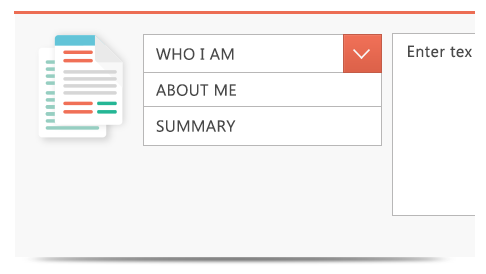
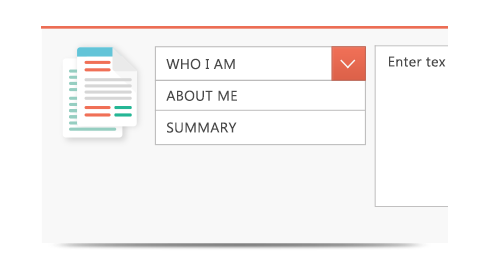
Changed design for home page carousel

diff --git a/assets/css/sss_home.css b/assets/css/sss_home.css
@@ -3,42 +3,57 @@
 /*-----------------------------Carousel-------------------------------------*/
 
 .slide_top_1, .slide_top_2{	
-	width:50%; height:100px; float: left;
+	width:100%; height:100px; 
 	background:#1fa1b4; color: #fff;	text-align: center;
+}
+
+.slide_top_2{
+	padding-top: 20px;
+	height: 80px;
 }
 .slide_top_1 {	 
 	background: #93c13d;
 }
 .slide_top_1 h3{
-	margin-left: 140px;	
-	line-height: 100px; text-align: left; text-transform: uppercase; 	font-size: 1.4em;
+	margin-left: 20px;	
+	line-height: 100px; text-align: left; text-transform: uppercase; 	font-size: 1.8em;
 }
-.slide_top_1 span{	
+.slide_bottom_1 span{	
 	width:109px; height:103px; display:block; position: absolute; 
-	margin-top: -9px; margin-left: 20px;	font-size: 3em; line-height: 100px;
+	margin-top: -9px; margin-left: 0px;	font-size: 3em; line-height: 100px; padding-left:44px;
 	background:transparent url(../img/sprites.png) no-repeat left top; background-position: -301px -344px; }
+
+.slide_bottom_1 h4{
+	margin: 36px 20px 20px 140px;
+	font-size: 1.4em;
+	color: #232323;
+}
+
 .slide_top_2 a{
-	width: 80%; height: 50%; display: block; 
-	margin: 0 auto; margin-top: 17px;	padding-top: 16px;	
+	width: 40%; height: 50%; display: block;  
+	margin: 0 auto; 	padding-top: 12px;	
 	border: solid 1px #dc7f35; -webkit-border-radius: 4px; 	-moz-border-radius: 4px;	border-radius: 4px;
   	background-color: #eb8a3d;	color: #ffffff; text-decoration: none; font-size: 1.6em;}
 
 .slide_bottom_1, .slide_bottom_2{
-	width: 50%; height: 340px;	float: left;  
+	width: 50%; height: 320px;	float: left;  
 	color: #fff;
 }
 .slide_bottom_1{background: #3dbfd9;}
-.slide_bottom_2{background: #26b796;}
+.slide_bottom_2{background: #26b796; }
 .slide_bottom_2 p{
-	padding: 20px;  line-height: 24px;	font-size: 1.2em;
+	padding: 20px;  line-height: 24px;	font-size: 1em; 
 }	
 
+.slide_bottom_2 h4{
+	color: #000000; font-size: 1.4em; line-height: 24px; padding: 20px; 
+}
 .slider_view{
 	width:100%; height:450px;	position:relative;	overflow:hidden;
 	padding-top:10px;
 }
 .zxcv{
-	width: 100%; height: 100%; padding-top: 7px;
+	width: 100%; height: 100%; 
 }
 .slider_nav{ 
 	position: absolute; 

diff --git a/assets/css/responsiveslides.css b/assets/css/responsiveslides.css
@@ -30,8 +30,9 @@
   /*float: left;*/ /*commented to center slider img*/
   width: 100%;
   border: 0;
-  max-height: 274px;
-  max-width: 486px;
+  max-height: 245px;
+  max-width: 435px;
+  margin: 0 0 0 80px;
   }
 
   /********************Custom css override**************************/
@@ -41,7 +42,7 @@
     z-index: 9999 !important;
     position: absolute;
     right: 30px;
-    bottom: -6px;
+    bottom: 94px;
   }
 
   .rslides_tabs li{

diff --git a/application/views/home.php b/application/views/home.php
@@ -7,77 +7,83 @@
 		  <li>
 			  <div class="zxcv">
 						<div class="slide_top_1">
-							<span>1</span>
-							<h3>Choose your resume style</h3>
-						</div>
-						<div class="slide_top_2">
-							<a href="<?=base_url('templates'); ?>">Get Started Here</a>
+							<h3>4 Easy Steps to make an Effective Resume</h3>
 						</div>
 						<div class="slide_bottom_1">
+							<span>1</span>
+							<h4>CHOOSE YOUR RESUME STYLE</h4>
 							<img class="slider_img" alt="Choose your resume style" title="Choose your resume style" src="<?php echo base_url("assets/img/slider1.png"); ?>">
 						</div>
 						<div class="slide_bottom_2">
-							<p>Penning down your resume is not easy to do and when its finally complete there is no energy left to make it look good. Its the same drab black and white Word document you end up with. <br/><br/>Here is where we want to make a difference. We believe your resume is the most important document you ever created and hence we have designed a whole range of templates for you to pick from. With a face lift there is a good chance your resume brightens up your prospects to get selected from the pile. </p>
+							<h4>It takes 5 seconds for a recruiter to give your resume a chance!</h4>
+							<p>Give your resume a make over, not just in content but also in its appearance. We at EZCV understand that recruiters take all of 5 seconds to decide on your resume and we want to help you make that impact. We have a wide range of template designs that can suit your resume. With a face lift there is a good chance your resume brightens up your prospects to get selected from the pile. </p>
 						</div>
-						<div class="clearboth"></div>	
+						<div class="clearboth"></div>
+						<div class="slide_top_2">
+							<a href="<?=base_url('templates'); ?>">Get Started Here</a>
+						</div>	
 			</div>
 		  </li>
 		  <li>
 			  <div class="zxcv">
 						<div class="slide_top_1">
-							<span>2</span>
-							<h3> Discover Yourself</h3>
-						</div>
-						<div class="slide_top_2">
-							<a href="<?=base_url('templates'); ?>">Get Started Here</a>
+							<h3>4 Easy Steps to make an Effective Resume</h3>
 						</div>
 						<div class="slide_bottom_1">
+							<span>2</span>
+							<h4>DISCOVER YOURSELF</h4>
 							<img class="slider_img" alt="Discover yourself" title="Discover yourself" src="<?php echo base_url("assets/img/slider2.png"); ?>">
 						</div>
 						<div class="slide_bottom_2">
-							<p>These are the most crutial pieces of information. A recruiter can keep or reject your resume based on how you project yourself. We understand your need for a good resume with chatchy phrases that build your personality and make an impact.<br/><br/>We have made form filling much easier, you don't have to think up beautiful words any more. We serve them to you as you go along. All you need to do is pick the best matches that suit your personality. Now, that is a step forward to help right! </p>
+							<h4>We have done all the thinking for you!</h4>
+							<p>We understand your need for a good resume with chatchy phrases that build your personality and make an impact. We have made form filling much easier, you don't have to think up beautiful words any more. We serve them to you as you go along. All you need to do is pick the best matches that suit your personality. </p>
 						</div>
-						<div class="clearboth"></div>	
+						<div class="clearboth"></div>
+						<div class="slide_top_2">
+							<a href="<?=base_url('templates'); ?>">Get Started Here</a>
+						</div>	
 			</div>
 		  </li>
 		  <li>
 			  <div class="zxcv">
 						<div class="slide_top_1">
-							<span>3</span>
-							<h3> Build Your Image</h3>
+							<h3>4 Easy Steps to make an Effective Resume</h3>
 						</div>
-						<div class="slide_top_2 ">
-							<a href="<?=base_url('templates'); ?>">Get Started Here</a>
-						</div>
-					
-					
 						<div class="slide_bottom_1"> 
+							<span>3</span>
+							<h4>BUILD YOUR IMAGE</h4>
 							<img class="slider_img" alt="Build your Image" title="Build your Image" src="<?php echo base_url("assets/img/slider3.png"); ?>">
 						</div>
 						<div class="slide_bottom_2">
-							<p>At the end of the exercise of building your image and putting in all the right words together you want a great looking resume. We give you the choice of changing the template any number of times till you feel comfortable. <br/><br/>At the end of it, we want you to have a great looking resume that best describes you.</p>
+							<h4>Create an elegant profile!</h4>
+							<p>It just matters, your resume is the reflection of your personality and we surely want to get it right. You can decide on your template of choice and make the change as many times as you want till you feel comfortable. 
+At the end of it, we want you to have a great looking resume that best describes you.</p>
 						</div>
-						<div class="clearboth"></div>	
+						<div class="clearboth"></div>
+						<div class="slide_top_2 ">
+							<a href="<?=base_url('templates'); ?>">Get Started Here</a>
+						</div>	
 			</div>
 		  </li>
 		  <li>
 			  <div class="zxcv">
 						<div class="slide_top_1">
-							<span>4</span>
-							<h3>Register With EZCV</h3>
+							<h3>4 Easy Steps to make an Effective Resume</h3>
 						</div>
-						<div class="slide_top_2">
-							<a href="<?=base_url('templates'); ?>">Get Started Here</a>
-						</div>
-					
-					
 						<div class="slide_bottom_1">
+							<span>4</span>
+							<h4>REGISTER WITH EZCV</h4>
 							<img class="slider_img" alt="Register with EZCV" title="Register with EZCV" src="<?php echo base_url("assets/img/slider4.png"); ?>">
 						</div>
 						<div class="slide_bottom_2">
-							<p>And of course, any resume you work on is of great importance to us. We want to ensure we preserve all your hard work so that you can edit it the next time you visit our site. <br/><br/>Once you have registered with us, you can stay rest assured that all your hard work and time spent has been saved up to the last detail.</p>
+							<h4>Update and maintain your resume</h4>
+							<p>And of course, any resume you work on is of great importance to us. We want to ensure we preserve all your hard work so that you can edit it the next time you visit our site. Once you have registered with us, you can stay rest assured that all your hard work and time spent has been saved up to the last detail. 
+ </p>
 						</div>
-						<div class="clearboth"></div>	
+						<div class="clearboth"></div>
+						<div class="slide_top_2">
+							<a href="<?=base_url('templates'); ?>">Get Started Here</a>
+						</div>	
 					</div>
 		  </li>
 		</ul>
